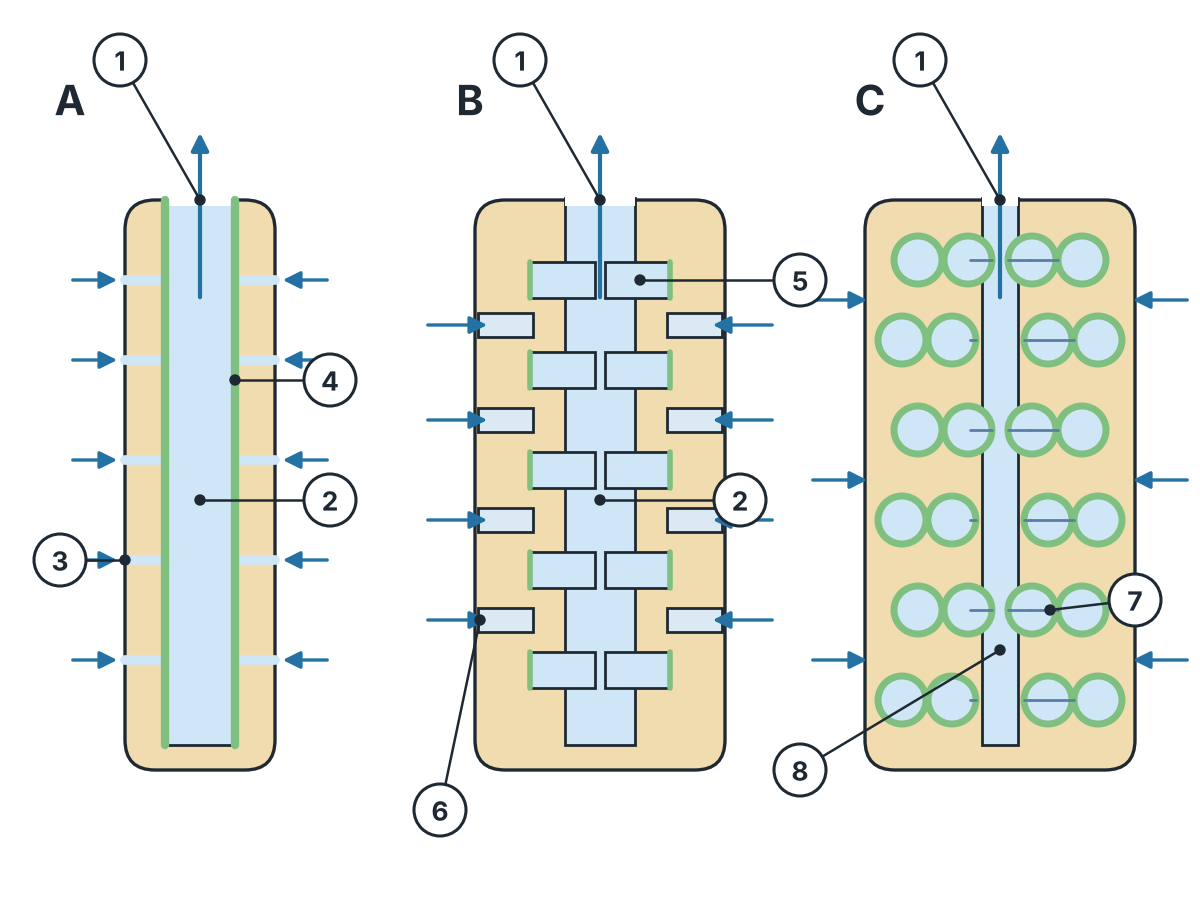
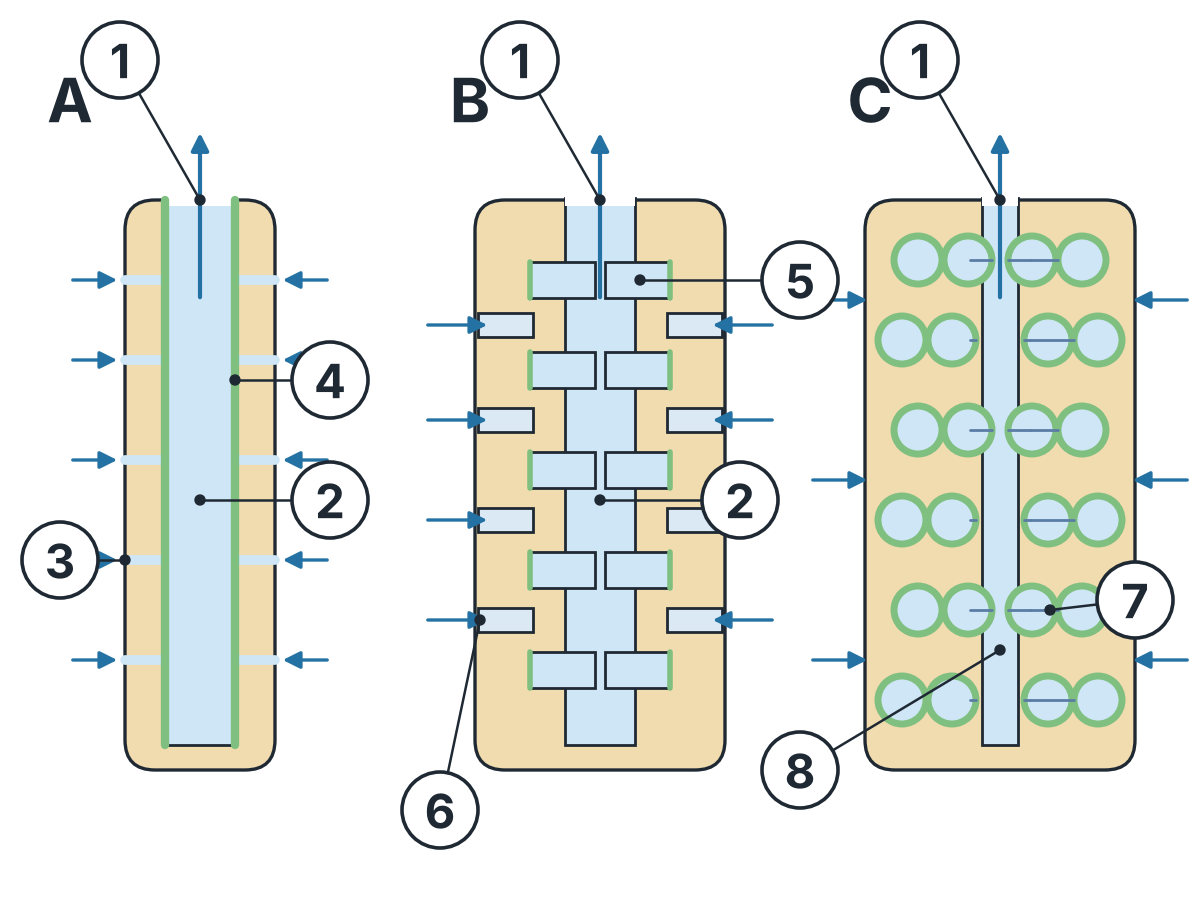
Audit figures: enlarge numerals for phone width, fix clipping, record findings
Claude-Session: https://claude.ai/code/session_01QePQvU2CP48MhK51vJMGir

diff --git a/tools/book_figure_gen.py b/tools/book_figure_gen.py
@@ -45,18 +45,19 @@ def canvas(w=12, h=9):
     return fig, ax
 
 
-def num(ax, n, tx, ty, px=None, py=None, r=26):
+def num(ax, n, tx, ty, px=None, py=None, r=38):
     """Numbered marker at (tx, ty) with an optional leader line to (px, py)."""
     if px is not None:
         ax.plot([tx, px], [ty, py], color=INK, lw=1.8, zorder=8)
         ax.add_patch(Circle((px, py), 5, color=INK, zorder=9))
-    ax.add_patch(Circle((tx, ty), r, fc="white", ec=INK, lw=2.2, zorder=10))
-    ax.text(tx, ty - 1, str(n), ha="center", va="center", fontsize=19, fontweight="bold",
+    r = max(r, 38)   # numerals must stay readable when the figure is shown at phone width
+    ax.add_patch(Circle((tx, ty), r, fc="white", ec=INK, lw=2.6, zorder=10))
+    ax.text(tx, ty - 1, str(n), ha="center", va="center", fontsize=(34 if n < 10 else 29), fontweight="bold",
             color=INK, zorder=11)
 
 
 def letter(ax, s, x, y):
-    ax.text(x, y, s, fontsize=30, fontweight="bold", color=INK, ha="center", va="center")
+    ax.text(x, y, s, fontsize=44, fontweight="bold", color=INK, ha="center", va="center")
 
 
 def arrow(ax, p, q, rad=0.0, lw=3.0, color=INK, style="-|>", ls="-"):
@@ -769,7 +770,7 @@ def taenia_parts():
     rect(ax, 330, 618, 110, 44, fc=BODY, lw=2.4, r=10)          # neck
     # proglottids, immature to gravid
     x = 450
-    items = [("imm", 40, 50), ("imm", 56, 60), ("mat", 76, 80), ("mat", 96, 100), ("mat", 116, 110), ("grav", 150, 100), ("grav", 180, 90)]
+    items = [("imm", 35, 50), ("imm", 49, 60), ("mat", 67, 80), ("mat", 84, 100), ("mat", 102, 110), ("grav", 132, 100), ("grav", 158, 90)]
     for kind, w, h in items:
         rect(ax, x, 640 - h / 2, w, h, fc=BODY if kind != "grav" else "#f0e6c8", lw=2.2, r=4)
         if kind == "mat":
@@ -798,9 +799,9 @@ def taenia_parts():
     num(ax, 2, 90, 520, 130, 590)
     num(ax, 3, 330, 780, 230, 670)
     num(ax, 4, 390, 520, 390, 600)
-    num(ax, 5, 560, 840, 505, 670)
-    num(ax, 6, 770, 760, 740, 690)
-    num(ax, 7, 1000, 760, 960, 690)
+    num(ax, 5, 560, 840, 515, 670)
+    num(ax, 6, 770, 760, 660, 690)
+    num(ax, 7, 1000, 760, 880, 690)
     num(ax, 8, 420, 460, 420, 410)
     num(ax, 9, 1100, 440, 960, 340)
     save(fig, "taenia-parts")
@@ -1137,7 +1138,7 @@ def nematode_routes():
         for a, b in ((0, 1), (1, 2), (2, 3)):
             arrow(ax, (xs[a] + 85, yy + 20), (xs[b] - 100, yy + 20), lw=3)
     for n, x in zip((1, 2, 3, 4), xs):
-        num(ax, n, x, 880)
+        num(ax, n, x, 858)
     save(fig, "nematode-routes")
 
 

diff --git a/docs/BOOK_STRUCTURE_AUDIT.md b/docs/BOOK_STRUCTURE_AUDIT.md
@@ -147,5 +147,23 @@ What changed:
   chapter text) and are not shipped.
 - Four Commons references are placed: Entamoeba and Leishmania (public domain), Trypanosoma (Johannahoog, CC BY-SA 3.0) and Plasmodium (Sina Adl, CC BY 4.0). The two author names were supplied by the owner and must be re-checked on the file pages before release.
 
+Audit of the figure sections (2026-10-26, after the last batch):
+- 42 library entries, all with an image file and a bilingual credit; none unused; 43 library placements in
+  29 chapters. One figure (vector cycle) is deliberately used in two chapters. Caption keys, English and Tamil,
+  match each other everywhere, and match the numerals drawn in the image.
+- **Fixed: numerals unreadable on a phone.** The schematics were 1200 px wide with numerals about 5 dp tall
+  when shown at phone width. Circles and numerals were enlarged (about 9 dp) and all 30 redrawn; the full-size view
+  is still available by tapping.
+- **Fixed: clipping.** The Taenia body-plan strobilus ran off the right edge and the top numerals of the nematode
+  routes figure were cut; both redrawn.
+- **Open, needs your decision: Tamil spelling of the animal name.** The Nereis chapter writes நெரிஸ்; the eight
+  Nereis plates (burned-in labels) write நெரீஸ், and the app as a whole uses both (13 and 15 occurrences). The
+  plates also use பாராபோடியா where the chapter writes பாரபோடியம். Labels burned into a raster cannot be edited;
+  either the plates are regenerated or the chapter adopts the plate spelling.
+- **Open: burned-in labels.** The Nereis plates carry English and Tamil labels inside the image, unlike the
+  type-study plates, whose labels are kept outside the pixels by project policy. Each plate is about 2 MB and
+  eight are now in one chapter; they are sub-sampled by the decoder.
+- Not checked: how any figure looks on a device; Tamil caption wrapping.
+
 Still open: 23 chapters have no figure; the schematics and the AI-generated Nereis plates need
 a subject-expert check; the Compose rendering is verified by CI only.
